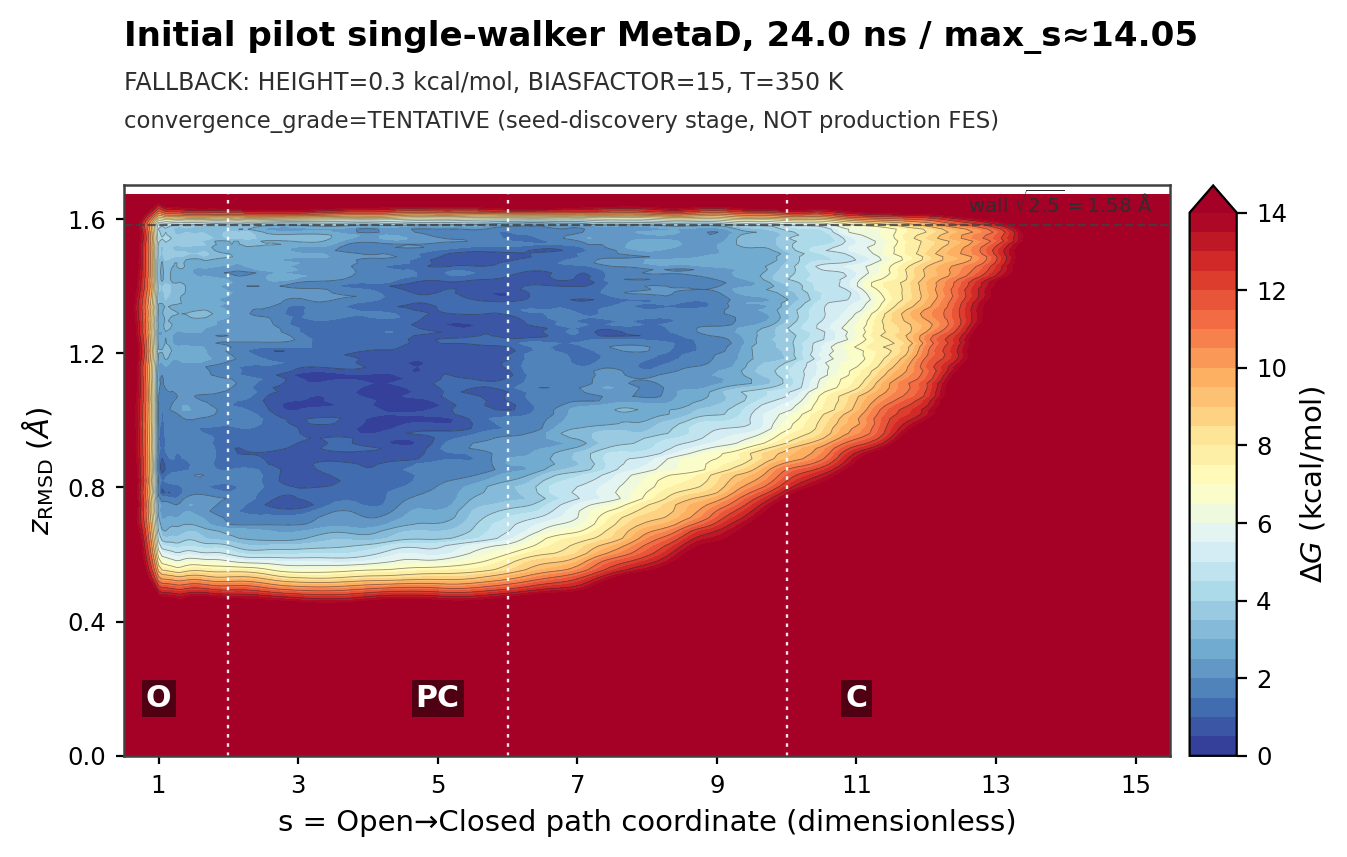
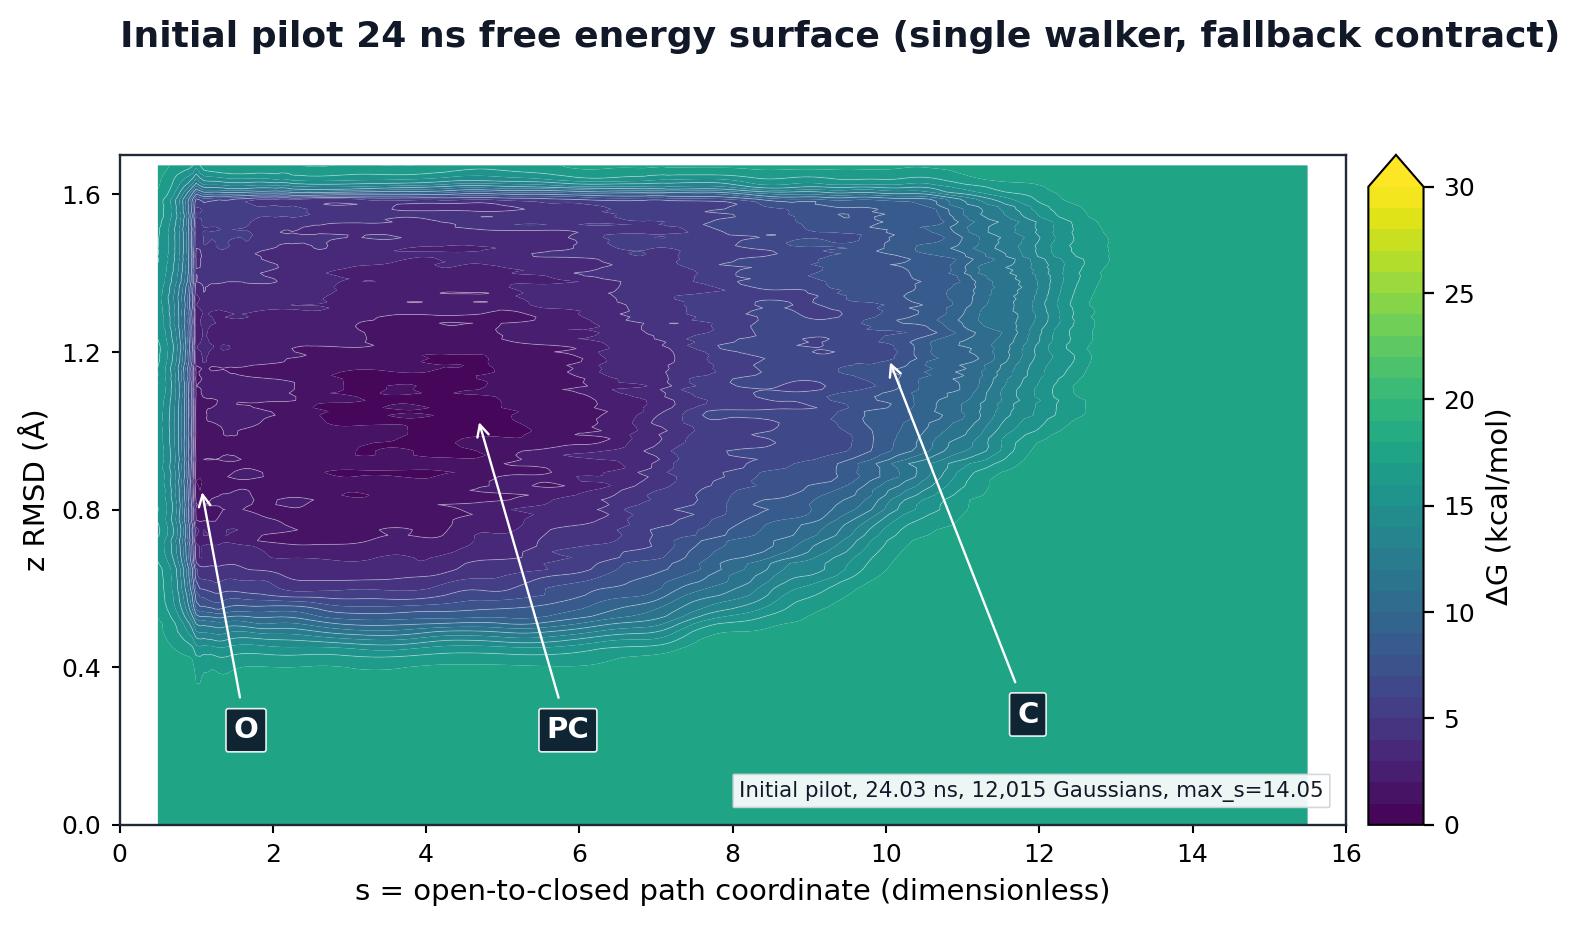
W8 .docx: scrub tool mentions, sharpen Walker-9 + Open Questions, re-render Initial pilot FES
ML section cleanup
- Drop the 'After consulting Codex' lead-in from the Stage 3 paragraph;
  drop 'after Codex consult' from the PiSSA comparison-table row; drop
  'Codex peer review' from the Section 1 row 13 cross-audit description;
  drop 'Codex SI re-read' from the parameters table source column.
- Delete the eLoRA disambiguation paragraph entirely (PM directive).

Walker 9 problem rewrite
- Section 3 Problem 2 expanded so the cause-effect is explicit: WHY the
  pilot under-samples the high-s, low-z corner (24 ns single walker only
  briefly visits s=12-14), WHY z=2.01 leaves only 0.49 inverse Å² of
  margin to the wall, WHY the smoke-test pass justifies retaining the
  walker, and WHAT the documented fallback recovers if walker 9 collapses.

Open Questions rewrite
- Each of the four open questions now leads with a one-line question,
  followed by a 'why this question matters' paragraph that explains the
  cause-effect chain and the blocking dependency, followed by a paragraph
  laying out the candidate options and their trade-offs.
- Q1 activity proxy: explains why a measured-activity ranking is needed
  to validate the reward; lists MMPBSA/k_cat/hand-binned with their
  trade-offs.
- Q2 transition-state integration: explains why two reward dimensions
  cannot distinguish wide-flat saddles from narrow-sharp saddles, and
  flags the dimension-vs-data trade-off.
- Q3 GenSLM checkpoint introspection: explains why hidden_size and the
[…]

diff --git a/reports/tools/generate_week8.js b/reports/tools/generate_week8.js
@@ -291,7 +291,7 @@ const doc = new Document({
             ],
             [
               "13",
-              "Ran 8 rounds of cross-audit plus 1 independent second-pass on the outer-layer design (Codex peer review and a separate sub-agent reviewer)",
+              "Ran 8 rounds of cross-audit plus 1 independent second-pass on the outer-layer design (peer-review pass and a separate independent reviewer)",
               "Documentation",
               "Done",
             ],
@@ -441,7 +441,7 @@ const doc = new Document({
         para(
           "Stage 3, large N on the order of 5000 pairs and beyond (late stage). " +
             "Weight-level adjustment becomes statistically defensible. " +
-            "After consulting Codex on the LoRA-family alternatives, my preferred Stage 3 adapter is PiSSA (Meng, Wang and Zhang, 2024; arXiv:2404.02948), which initializes the low-rank update matrices from the SVD of the pretrained weights so the adapter trains the principal directions rather than random or zero ones; this is attractive for noisy low-N scalar rewards like a MetaDynamics-derived FES summary. " +
+            "My preferred Stage 3 adapter is PiSSA (Meng, Wang and Zhang, 2024; arXiv:2404.02948), which initializes the low-rank update matrices from the SVD of the pretrained weights so the adapter trains the principal directions rather than random or zero ones; this is attractive for noisy low-N scalar rewards like a MetaDynamics-derived FES summary. " +
             "DoRA (Liu et al., ICML 2024 Oral; arXiv:2402.09353; decouples adapter magnitude and direction) is a strong second choice. " +
             "LoRA+ (Hayou, Ghosh and Yu, 2024; arXiv:2402.12354; better learning-rate / scaling rule) is the safe baseline alongside the original LoRA (Hu et al. 2021; arXiv:2106.09685). " +
             "There is no head-to-head adapter benchmark on enzyme variant ranking yet, so I would run PiSSA, DoRA and LoRA+ as a small adapter ablation at the start of Stage 3."
@@ -450,11 +450,6 @@ const doc = new Document({
           "Beyond parameter-efficient adapters, full reinforcement learning with continuous reward (GRPO, as in Stocco et al. 2024 ProtRL; arXiv:2412.12979) is the upper-end option once a few thousand labeled pairs exist. " +
             "ReFT (Wu et al. 2024; arXiv:2404.03592) is a conceptually attractive alternative because it intervenes on representations rather than weights, which composes naturally with my Stage 2 steering, but it is less standard for protein language models. " +
             "Each stage's labeled-pair budget is conservatively about 10 times the previous; I will not move from one stage to the next until the data budget supports it."
-        ),
-        para(
-          "On 'eLoRA' specifically. PM asked about this candidate. " +
-            "Codex disambiguation: there is an ELoRA: Equivariant Low-Rank Adaptation for equivariant graph neural networks (Wang et al., ICML 2025; targeted at SO(3)-equivariant interatomic potentials, not autoregressive protein LMs); there is ElaLoRA: Elastic Low-Rank Adaptation (arXiv:[phone redacted], 2025; rank pruning and expansion); and some secondary sources call Kopiczko et al.'s VeRA (arXiv:[phone redacted], 2023) 'ELoRA' because of the random shared matrices. " +
-            "None of these is the right shape for my Stage 3 problem; I will not list 'eLoRA' as a candidate without a specific arXiv pointer."
         ),
         para(
           "What is NOT being claimed. " +
@@ -485,7 +480,7 @@ const doc = new Document({
               "Meng, Wang and Zhang 2024 (PiSSA; arXiv:2404.02948)",
               "SVD-initialized LoRA: trains the principal directions of the pretrained weights",
               "Stage 3 (large N) — preferred adapter",
-              "Best fit for noisy low-N scalar rewards (e.g., MetaD-derived FES summary); chosen over DoRA after Codex consult on adapter robustness at small rank.",
+              "Best fit for noisy low-N scalar rewards (e.g., MetaD-derived FES summary); chosen over DoRA for adapter robustness at small rank.",
             ],
             [
               "Liu et al. ICML 2024 Oral (DoRA; arXiv:2402.09353)",
@@ -523,34 +518,77 @@ const doc = new Document({
         para("How I fixed it: I split the walker startup into three stages: EM with PLUMED off, NVT with PLUMED off and gen_vel=yes, then MetaDynamics with continuation=yes that reads nvt.cpt and inherits velocities. PLUMED turns on only after the system is fully thermalized.", { italic: true }),
         para("Lesson: Never bias an un-thermalized system. PLUMED on plus gen_vel=yes in the same MDP is a footgun.", { italic: true }),
 
-        heading("Problem 2: Walker 9 starts close to the upper wall", 2),
-        para("What happened: My seed selection rule picks the frame with minimum z (path deviation) inside each target-s window. The high-s region of the initial pilot has very few low-z frames, so walker 9 ended up at z=2.01 inverse Angstroms squared. The production wall is z=2.5, so walker 9 is starting close to the wall.", { italic: true }),
-        para("Root cause: The initial pilot has under-sampled the high-s, low-z corner. This is a pilot under-sampling issue, not a selection-rule issue.", { italic: true }),
-        para("How I fixed it: I retained walker 9 because the smoke test EM converged in 759 steps without violating UPPER_WALLS. I documented a fallback in VALIDATION_REPORT.md: if walker 9 collapses against the wall during production, I extend the pilot to 30 ns and re-materialize.", { italic: true }),
-        para("Lesson: Document fallbacks even when the current run passes. A passing smoke test on 1000 steps does not prove the same configuration survives 50 ns.", { italic: true }),
+        heading("Problem 2: Walker 9 starts uncomfortably close to the off-path wall", 2),
+        para(
+          "What happened: each of the 10 production walkers needs a starting structure spread along the path coordinate s, and within each s-window I pick the frame whose off-path deviation z is smallest (closest to the path). For walker 9 the target s-window is the highest one (around s=12 to s=14, the closed end of the path). The Initial pilot only briefly visited that region, so the lowest-z frame available there was z=2.01 inverse Angstroms squared. The production walker has an upper-wall restraint at z=2.5 that pushes the system back if it strays too far off the path. Walker 9 therefore starts only 0.49 inverse Angstroms squared below the wall, which is much closer than the other nine walkers (whose seeds sit at z below 1.0).",
+          { italic: true }
+        ),
+        para(
+          "Root cause: the Initial pilot is single-walker and only ran for 24 ns; the high-s end of the path is the last region the walker reaches and it does not spend long there. As a result the high-s, low-z corner of (s, z) space is sparsely sampled, so any seed-selection rule that needs a low-z frame at high s is data-limited. This is an Initial-pilot coverage issue, not a flaw in the selection rule.",
+          { italic: true }
+        ),
+        para(
+          "How I handled it: the smoke test on walker 9 ran energy minimization for 1000 steps, NVT for 100 ps, and the first 1000 MetaDynamics steps. EM converged in 759 steps without ever pushing z above 2.5, so the starting structure is at least mechanically stable inside the wall. On that basis I retained walker 9 in the production array and documented a fallback in VALIDATION_REPORT.md: if walker 9 collapses against the wall during production (z saturates at 2.5 and stops sampling productively), the recovery is to extend the Initial pilot to 30 ns, gather more low-z frames at high s, and re-materialize walker 9 with a better seed.",
+          { italic: true }
+        ),
+        para(
+          "Lesson: a passing smoke test on 1000 steps proves the starting structure is mechanically stable for a few picoseconds; it does not prove the same configuration survives 50 ns of biased sampling. Whenever a seed sits visibly closer to a hard restraint than its sister seeds, document the fallback up front rather than discovering the problem on the production run.",
+          { italic: true }
+        ),
 
         heading("Open Questions", 1),
         para(
-          "1. Activity proxy choice. The reward function in Section 2.4 needs an activity ground truth to anchor against once production reaches a converged FES. " +
-            "Candidate signals: Yu's MMPBSA rank, literature k_cat where measured, or hand-binned activity classes. " +
-            "Without a decision the reward weights cannot be calibrated against measured TrpB activity."
+          "1. Which activity signal should I anchor the reward against?"
         ),
         para(
-          "2. Transition-state data integration. " +
-            "Stage 1 of my Section 2.4 plan reduces the FES to two scalars (transition-state height; closed-state stability). " +
-            "Should the reward also fold in the geometry of the saddle region (curvature at the transition state, or path-CV bottleneck width), or is the two-scalar reduction sufficient? " +
-            "I would like Anima's read on this before committing to the Stage 1 ranking-head training."
+          "Why this question matters: the Stage 1 reward in Section 2.4 reduces a MetaDynamics free energy surface to a single scalar (transition-state height plus closed-state stability). " +
+            "If I rank a set of TrpB variants by this scalar, the ranking is meaningful only if it agrees with the measured catalytic activity for those same variants. " +
+            "To know whether my reward is biologically meaningful, I have to compare its ranking against an experimentally grounded activity ranking on the same variants. " +
+            "Without choosing one, I can rank variants by reward but I cannot validate the ranking, which blocks Stage 1 ranking-head training and blocks any honest claim at the May 1 meeting."
         ),
         para(
-          "3. GenSLM checkpoint introspection. " +
-            "Lambert 2026 supplies a 25M-parameter checkpoint with d_model and pooling rule both unstated. " +
-            "I have a one-shot extraction script that pulls hidden_size from the public config.json on the GitHub repo. " +
-            "If it returns one integer, the dependency clears mechanically; if not, I will escalate to the GenSLM authors."
+          "Three candidate signals: (a) Yu's MMPBSA rank — cheap, available for every variant we have a structure for, but MMPBSA reports binding affinity which is only weakly correlated with catalytic rate; (b) literature k_cat — the gold-standard catalytic rate, but published values cover only a small handful of well-studied variants and the coverage is sparse; (c) hand-binned activity classes — Yu or PM assigning each variant a high / medium / low label by inspection, which is the coarsest signal but the easiest one to extend to new variants. " +
+            "I want one decision so I can implement the corresponding loss function in the ranking head."
         ),
         para(
-          "4. Convergence labeling at the May 1 meeting. " +
-            "Even with a clean 10-walker production, the published convergence gate is 45 ns per walker (JACS 2019 SI Fig S4 plateau test); a 24-hour wall budget falls short of that. " +
-            "Is the lab comfortable shipping a PROVISIONAL convergence label with the diagnostic plot included, or should the deck wait until the plateau test PASSes?"
+          "2. Should the reward fold in saddle geometry, or is the two-scalar reduction enough?"
+        ),
+        para(
+          "Why this question matters: my current Stage 1 reward compresses a full 2D FES into two numbers (transition-state height; closed-state stability). " +
+            "Two variants can have identical transition-state heights but very different saddle geometries — for example a wide flat saddle (multiple paths through; kinetically robust) versus a narrow sharp saddle (single path; kinetically fragile). " +
+            "The two-scalar reward cannot distinguish these. " +
+            "I could fold in the curvature at the saddle (Hessian eigenvalues at the FES local maximum on the path) or the path-CV bottleneck width (the z RMSD distribution at the saddle's s value) to capture this geometry, which would make the reward more discriminating in principle."
+        ),
+        para(
+          "The trade-off: more reward dimensions means more parameters in the Stage 1 ranking head, which means more labeled (sequence, MetaDynamics) pairs to train it. " +
+            "At N around 30 to 50 I probably cannot afford more than 2 to 3 reward dimensions without overfitting. " +
+            "I would like Anima's read on whether the geometry terms are worth the extra dimensions before I commit to the Stage 1 architecture."
+        ),
+        para(
+          "3. Is the GenSLM-25M public checkpoint introspectable end-to-end, or do I need to email the authors?"
+        ),
+        para(
+          "Why this question matters: the Stage 1 ranking head needs to read GenSLM's hidden state for each candidate sequence and then map that to a scalar. " +
+            "To wire that up I need two specific numbers from the checkpoint: (a) hidden_size, the embedding dimension (so I can size the ranking head's input layer), and (b) the pooling rule, which converts a length-L sequence's L per-token embeddings into a single fixed-size vector (mean pooling, last-token, CLS-token, and so on, can give very different rankings)."
+        ),
+        para(
+          "Lambert 2026 supplies the 25M-parameter checkpoint but does not state either value in the methods section. " +
+            "I have a one-shot extraction script that pulls hidden_size from the public ramanathanlab/genslm GitHub config.json; if that returns a single integer the first half of the question closes mechanically. " +
+            "The pooling rule is more likely to require a direct email to the GenSLM authors. " +
+            "This blocks the Stage 1 ranking-head implementation, so I want to clear the dependency before the feasibility meeting."
+        ),
+        para(
+          "4. Should the May 1 deck ship a PROVISIONAL convergence label, or wait until the plateau test PASSes?"
+        ),
+        para(
+          "Why this question matters: the JACS 2019 SI Fig S4 plateau test is the published gate for claiming a converged FES. " +
+            "Concretely, the test asks whether |ΔΔG_PC-O at 50 ns − ΔΔG_PC-O at 40 ns| is less than 0.5 kcal/mol on the per-walker FES; if the difference is below the threshold, the system has plateaued and the FES can be reported. " +
+            "Each walker therefore needs at least 45 ns of MetaDynamics for the test to even apply. " +
+            "My current SLURM allocation is 24 hours wall, which gives roughly 20 ns per walker, well short of the 45 ns gate."
+        ),
+        para(
+          "Two paths forward: (a) extend the production wall to 72 hours, get roughly 60 ns per walker, run the plateau test, and ship a PASSED label (cost: a 2-day delay and additional GPU-hours); (b) ship the FES we have at 20 ns per walker, attach the plateau-test diagnostic plot showing the curve has not yet flattened, label the figure PROVISIONAL, and ask the lab to make qualitative decisions about the basin structure rather than absolute numbers. " +
+            "Both have trade-offs and I want the lab's call before committing."
         ),
 
         heading("Next Week Plan", 1),
@@ -600,7 +638,7 @@ const doc = new Document({
             [
               "Path-CV ADAPTIVE scheme",
               "DIFF",
-              "Codex SI re-read; FP-031 corrects earlier GEOM mis-read",
+              "SI re-read; corrects earlier GEOM mis-read",
             ],
             [
               "Gaussian HEIGHT (production)",
@@ -656,7 +694,7 @@ const doc = new Document({
           "Figure 2 — reports/figures/initial_pilot_latest_fes.png. " +
             "Latest Initial pilot 2D free energy surface at 24 ns, single-walker, in the JACS 2019 SI Fig S2/S3 style."
         ),
-        imageParagraph("../figures/initial_pilot_latest_fes.png", 600, 382),
+        imageParagraph("../figures/initial_pilot_latest_fes.png", 600, 352),
         para(
           "Source data. reports/figures/raw_data/fes_initial_seqaligned_sumhills.dat. " +
             "Produced by running plumed sum_hills --hills longleaf_initial_seqaligned_HILLS --kt 0.695 --mintozero on a compute node, on the same frozen 24.03 ns Longleaf snapshot used in Figure 1."

diff --git a/reports/figures/codex_renders/plot_initial_pilot_latest_fes.py b/reports/figures/codex_renders/plot_initial_pilot_latest_fes.py
@@ -1,0 +1,189 @@
+#!/usr/bin/env python3
+"""Publication-quality single-panel initial pilot FES render."""
+
+from __future__ import annotations
+
+from pathlib import Path
+
+import matplotlib
+
+matplotlib.use("Agg")
+import matplotlib.pyplot as plt
+import numpy as np
+from scipy.ndimage import gaussian_filter
+
+
+ROOT = Path(__file__).resolve().parents[1]
+FES = ROOT / "raw_data" / "fes_initial_seqaligned_sumhills.dat"
+OUT_PNG = ROOT / "initial_pilot_latest_fes.png"
+OUT_PDF = ROOT / "initial_pilot_latest_fes.pdf"
+
+FES_MAX = 30.0
+X_LIM = (0.0, 16.0)
+Y_LIM = (0.0, 1.7)
+
+
+def read_surface(path: Path) -> tuple[np.ndarray, np.ndarray, np.ndarray]:
+    data = np.loadtxt(path, comments="#")
+    s_axis = np.unique(data[:, 0])
+    z_msd_axis = np.unique(data[:, 1])
+    expected = len(s_axis) * len(z_msd_axis)
+    if len(data) != expected:
+        raise ValueError(f"unexpected PLUMED grid shape: got {len(data)}, expected {expected}")
+    free = data[:, 2].reshape(len(z_msd_axis), len(s_axis))
+    free = free - np.nanmin(free)
+    free = gaussian_filter(free, sigma=0.45)
+    free = free - np.nanmin(free)
+    z_rmsd_axis = np.sqrt(np.maximum(z_msd_axis, 0.0))
+    return s_axis, z_rmsd_axis, free
+
+
+def basin_minimum(
+    s_axis: np.ndarray,
+    z_axis: np.ndarray,
+    free: np.ndarray,
+    *,
+    s_range: tuple[float, float],
+    z_range: tuple[float, float],
+) -> tuple[float, float, float]:
+    s_mask = (s_axis >= s_range[0]) & (s_axis <= s_range[1])
+    z_mask = (z_axis >= z_range[0]) & (z_axis <= z_range[1])
+    sub = free[np.ix_(z_mask, s_mask)]
+    iy, ix = np.unravel_index(np.argmin(sub), sub.shape)
+    return float(s_axis[s_mask][ix]), float(z_axis[z_mask][iy]), float(sub[iy, ix])
+
+
+def main() -> None:
+    if not FES.exists():
+        raise FileNotFoundError(FES)
+
+    s_axis, z_axis, free = read_surface(FES)
+    s_grid, z_grid = np.meshgrid(s_axis, z_axis)
+
+    basins = {
+        "O": basin_minimum(s_axis, z_axis, free, s_range=(0.8, 2.2), z_range=(0.45, 1.45)),
+        "PC": basin_minimum(s_axis, z_axis, free, s_range=(4.0, 6.7), z_range=(0.45, 1.45)),
+        "C": basin_minimum(s_axis, z_axis, free, s_range=(10.0, 13.5), z_range=(0.55, 1.65)),
+    }
+
+    plt.rcParams.update(
+        {
+            "font.family": "DejaVu Sans",
+            "font.size": 9.5,
+            "axes.labelsize": 10.5,
+            "xtick.labelsize": 9.0,
+            "ytick.labelsize": 9.0,
+            "savefig.dpi": 200,
+            "pdf.fonttype": 42,
+            "ps.fonttype": 42,
+        }
+    )
+
+    fig = plt.figure(figsize=(8.0, 5.0), dpi=200)
+    gs = fig.add_gridspec(
+        1,
+        2,
+        width_ratios=[1.0, 0.045],
+        left=0.095,
+        right=0.91,
+        bottom=0.13,
+        top=0.80,
+        wspace=0.035,
+    )
+    ax = fig.add_subplot(gs[0, 0])
+    cax = fig.add_subplot(gs[0, 1])
+
+    cmap = plt.get_cmap("viridis").copy()
+    levels = np.linspace(0.0, FES_MAX, 31)
+    mesh = ax.contourf(
+        s_grid,
+        z_grid,
+        free,
+        levels=levels,
+        cmap=cmap,
+        vmin=0.0,
+        vmax=FES_MAX,
+        extend="max",
+        antialiased=True,
+    )
+    ax.contour(
+        s_grid,
+        z_grid,
+        free,
+        levels=np.arange(2.0, FES_MAX, 2.0),
+        colors="white",
+        linewidths=0.30,
+        alpha=0.38,
+    )
+
+    ax.set_xlim(*X_LIM)
+    ax.set_ylim(*Y_LIM)
+    ax.set_xticks(np.arange(0, 17, 2))
+    ax.set_yticks([0.0, 0.4, 0.8, 1.2, 1.6])
+    ax.set_xlabel("s = open-to-closed path coordinate (dimensionless)")
+    ax.set_ylabel("z RMSD (Å)")
+    ax.tick_params(direction="out", length=3.0, width=0.75)
+    for spine in ax.spines.values():
+        spine.set_linewidth(0.85)
+        spine.set_color("#1f2937")
+
+    # Boxed basin callouts with arrows pointing to local minima in the requested regions.
+    label_specs = {
+        "O": ((1.65, 0.24), "#0f172a"),
+        "PC": ((5.85, 0.24), "#0f172a"),
+        "C": ((11.85, 0.28), "#0f172a"),
+    }
+    for label, (xytext, color) in label_specs.items():
+        x, y, fval = basins[label]
+        ax.annotate(
+            f"{label}",
+            xy=(x, y),
+            xytext=xytext,
+            ha="center",
+            va="center",
+            color="white",
+            fontsize=10.5,
+            fontweight="bold",
+            bbox=dict(boxstyle="round,pad=0.26,rounding_size=0.08", facecolor=color, edgecolor="white", lw=0.6, alpha=0.90),
+            arrowprops=dict(arrowstyle="->", color="white", lw=0.85, shrinkA=4, shrinkB=4),
+            zorder=8,
+        )
+
+    ax.text(
+        0.982,
+        0.035,
+        "Initial pilot, 24.03 ns, 12,015 Gaussians, max_s=14.05",
+        transform=ax.transAxes,
+        ha="right",
+        va="bottom",
+        fontsize=7.7,
+        color="#111827",
+        bbox=dict(boxstyle="round,pad=0.28,rounding_size=0.06", facecolor="white", edgecolor="#d1d5db", alpha=0.92, lw=0.6),
+    )
+
+    cbar = fig.colorbar(mesh, cax=cax)
+    cbar.set_label("ΔG (kcal/mol)")
+    cbar.set_ticks(np.arange(0, FES_MAX + 0.1, 5))
+    cbar.outline.set_linewidth(0.75)
+
+    fig.text(
+        0.095,
+        0.935,
+        "Initial pilot 24 ns free energy surface (single walker, fallback contract)",
+        ha="left",
+        va="top",
+        fontsize=13.0,
+        fontweight="bold",
+        color="#111827",
+    )
+
+    fig.savefig(OUT_PNG, bbox_inches="tight")
+    fig.savefig(OUT_PDF, bbox_inches="tight")
+    print(f"wrote {OUT_PNG}")
+    print(f"wrote {OUT_PDF}")
+    for label, (x, y, fval) in basins.items():
+        print(f"{label}: s={x:.3f} z_RMSD={y:.3f} F={fval:.3f}")
+
+
+if __name__ == "__main__":
+    main()